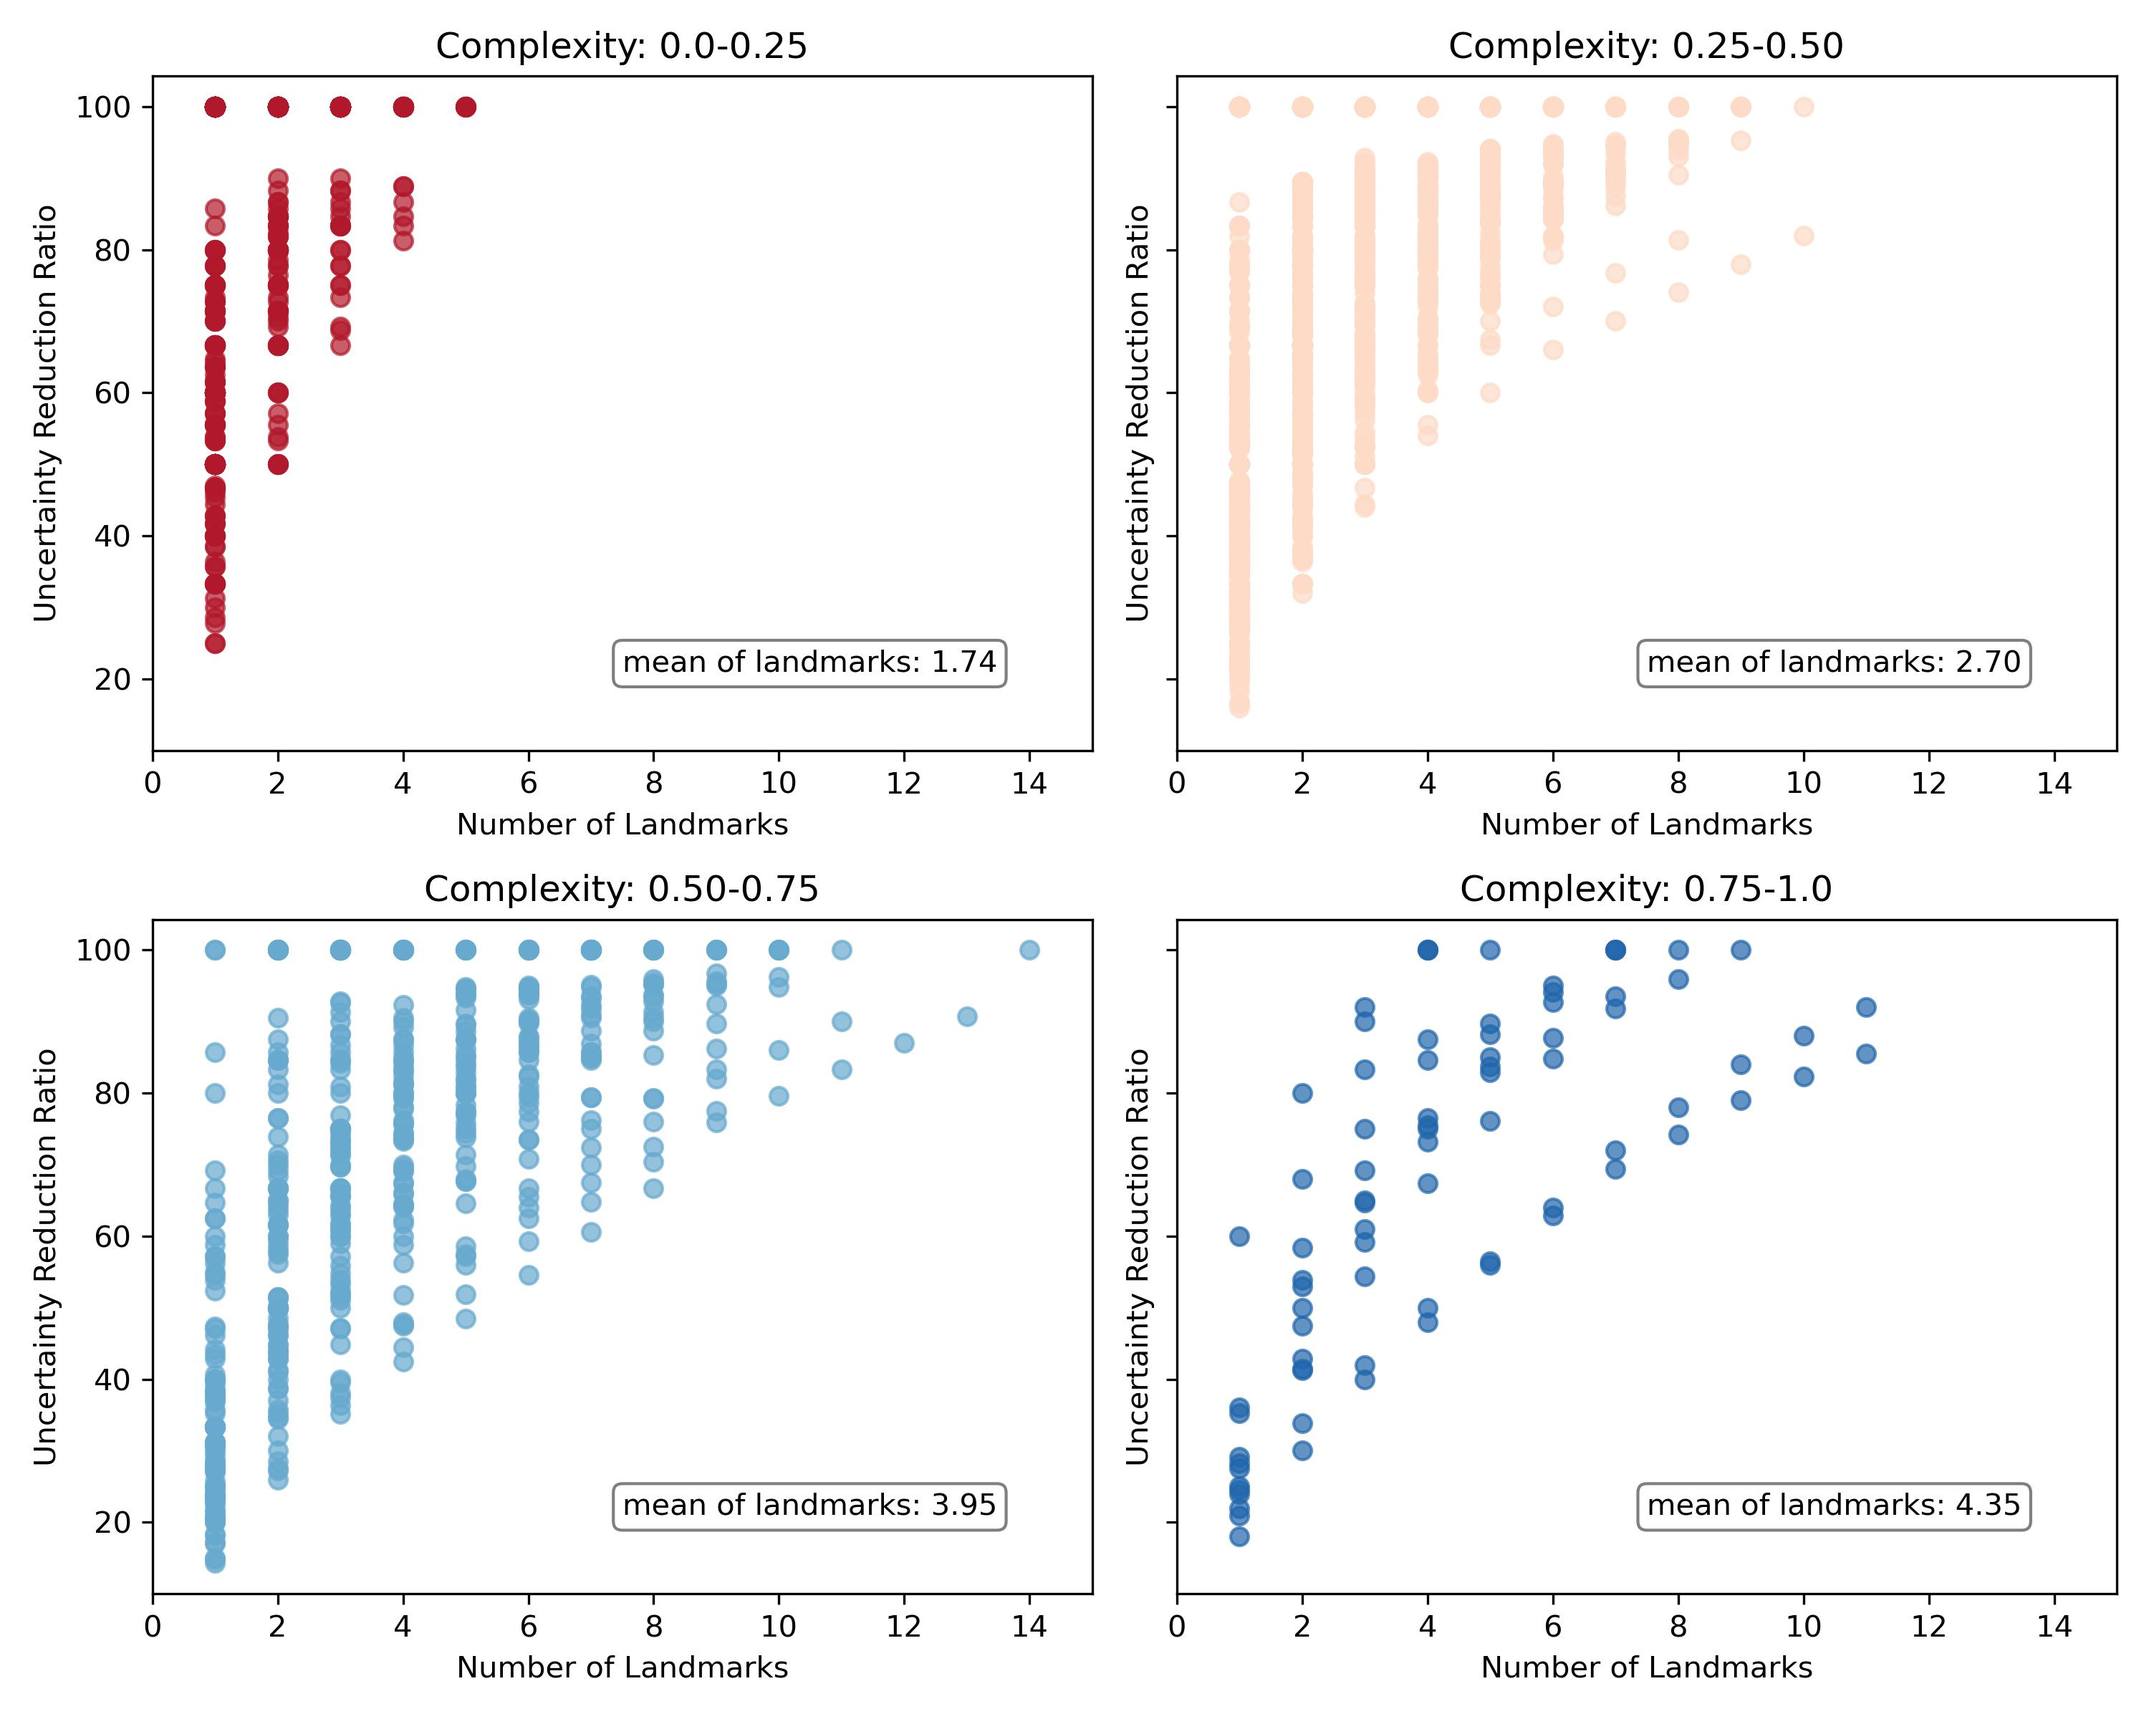
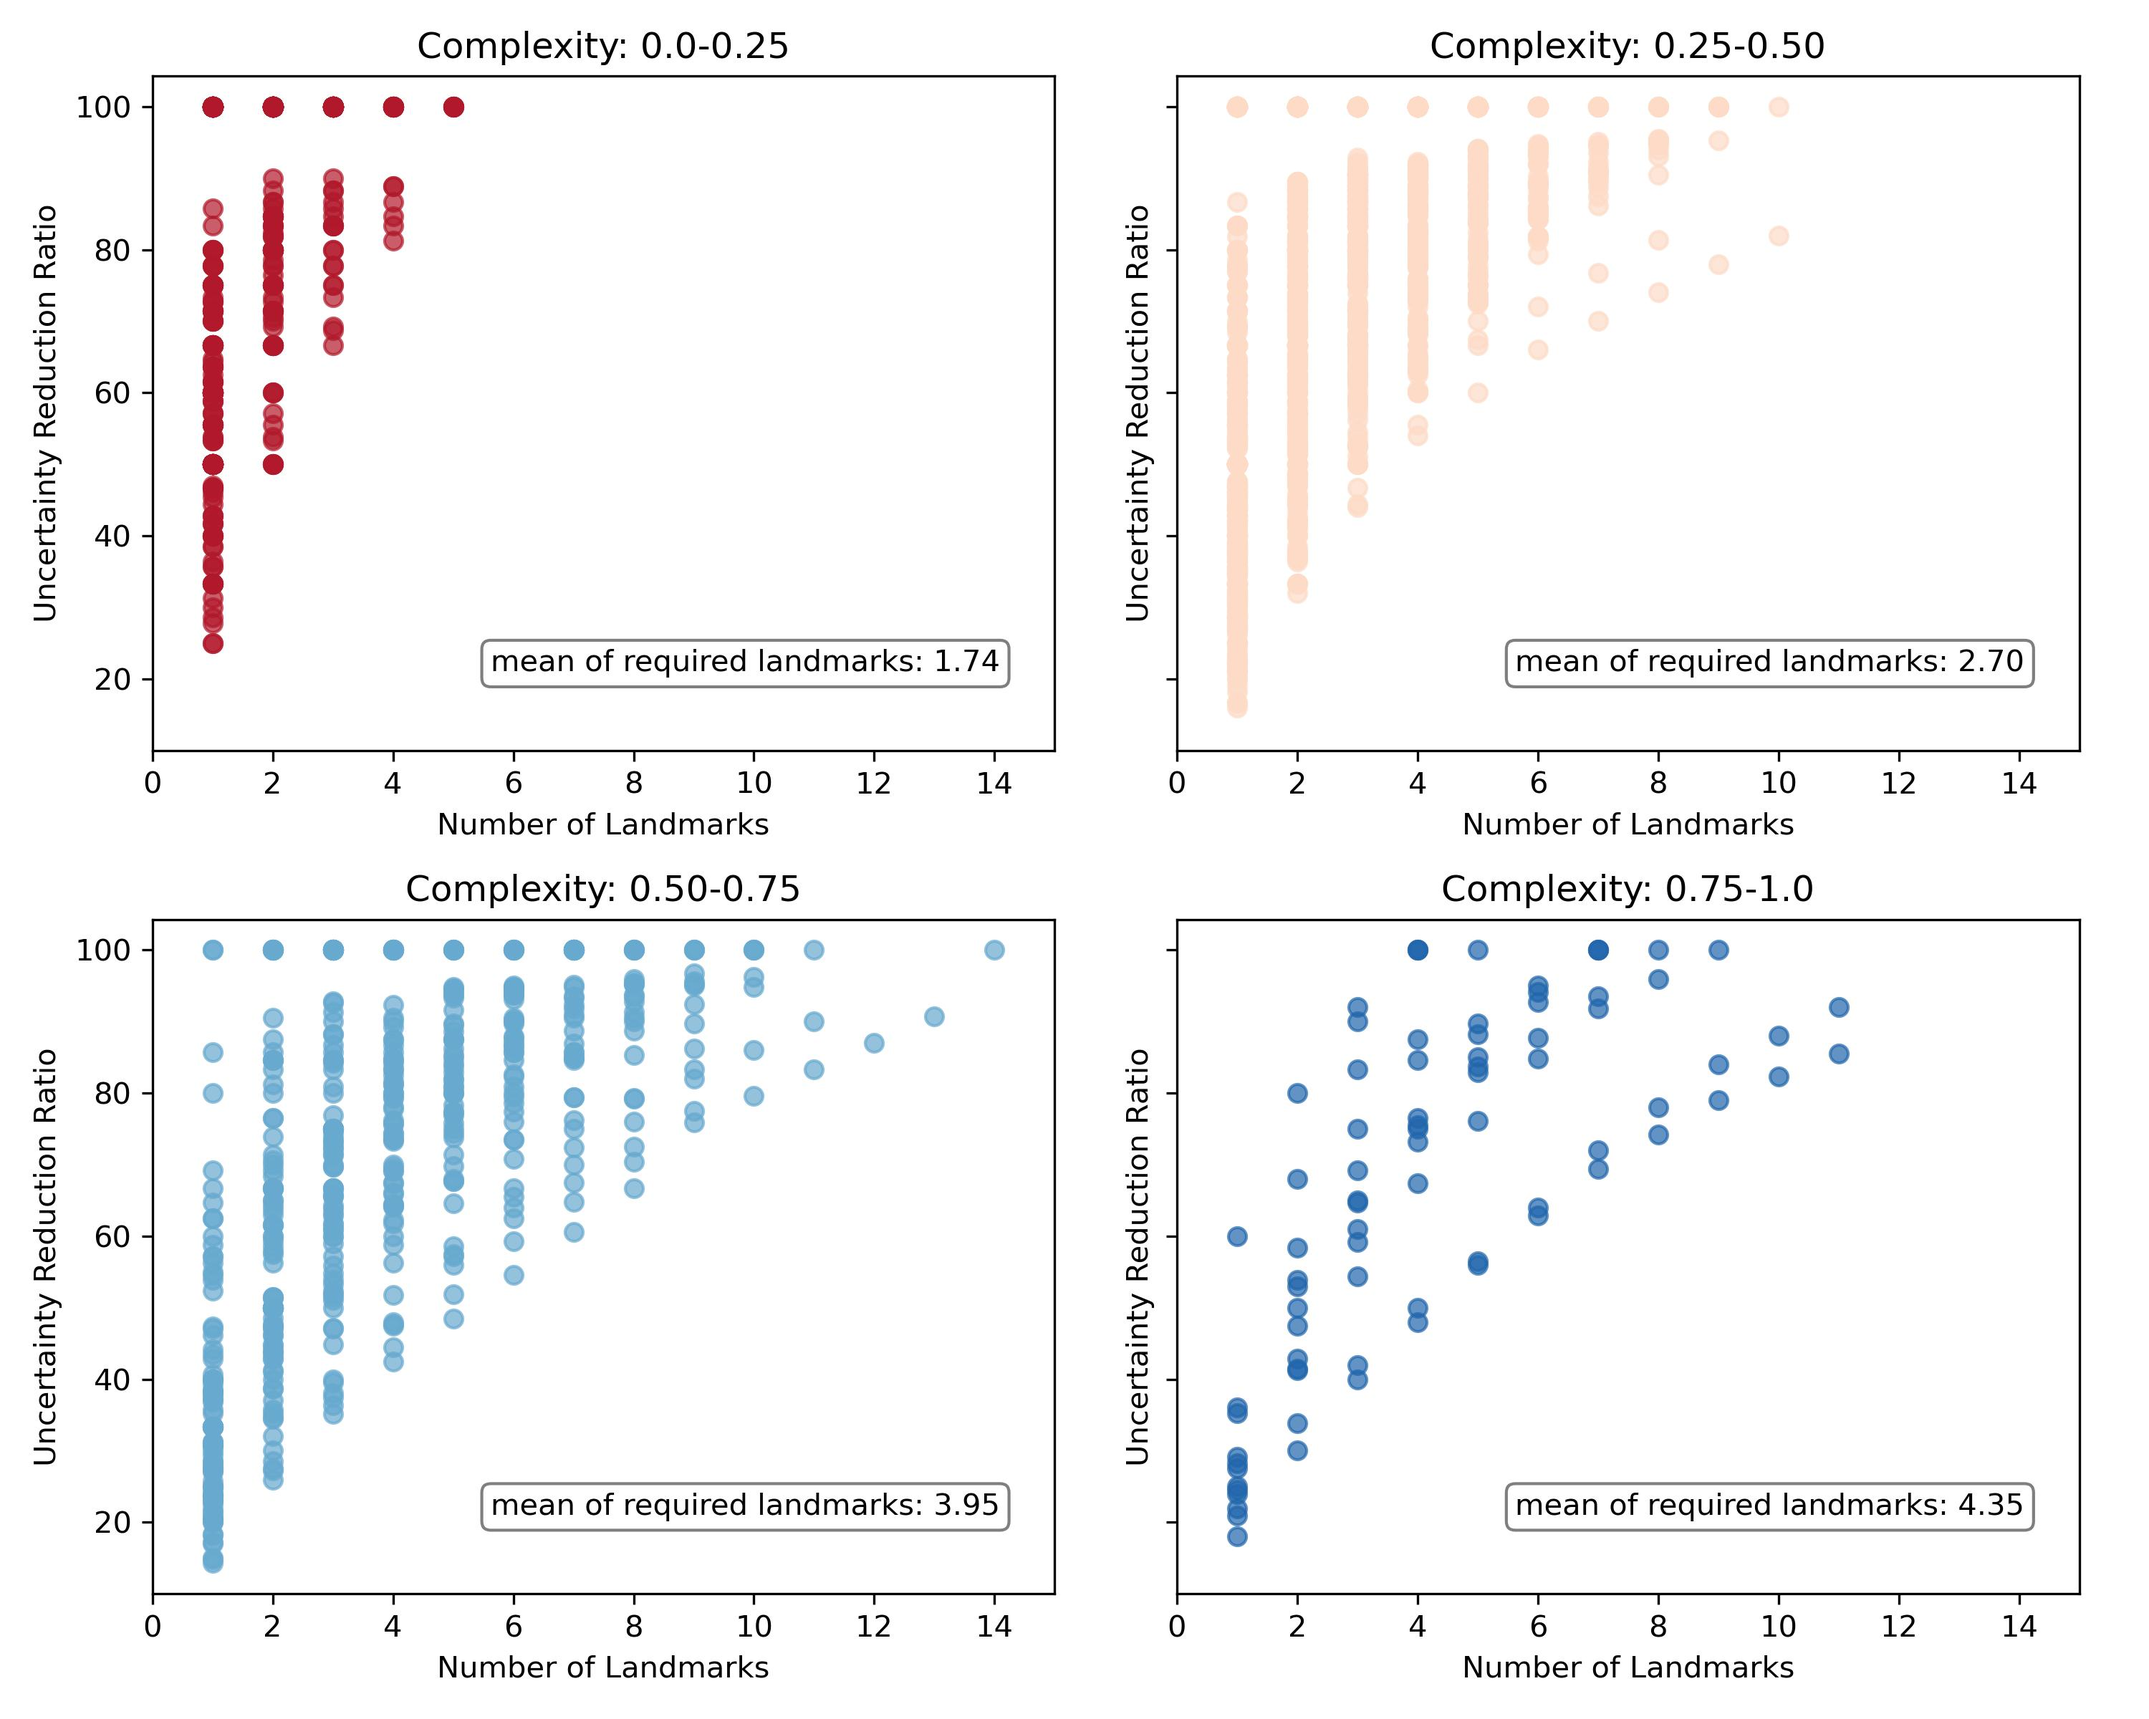
plot complexity

diff --git a/toExcel.py b/toExcel.py
@@ -200,7 +200,7 @@ def draw_subplots_based_on_complexity(csv_file, Complexity):
         statistical_measure = group['num_selected_vertices'].mean()  # Change this to the desired statistical measure
 
         # Add statistical measure as text to the plot
-        ax.text(0.5, 0.15, f'mean of landmarks: {statistical_measure:.2f}', transform=ax.transAxes, verticalalignment='top',
+        ax.text(0.375, 0.15, f'mean of required landmarks: {statistical_measure:.2f}', transform=ax.transAxes, verticalalignment='top',
                 bbox=dict(boxstyle='round,pad=0.3', facecolor='white', alpha=0.5))
 
     plt.tight_layout()  # Adjust the layout to prevent overlap
